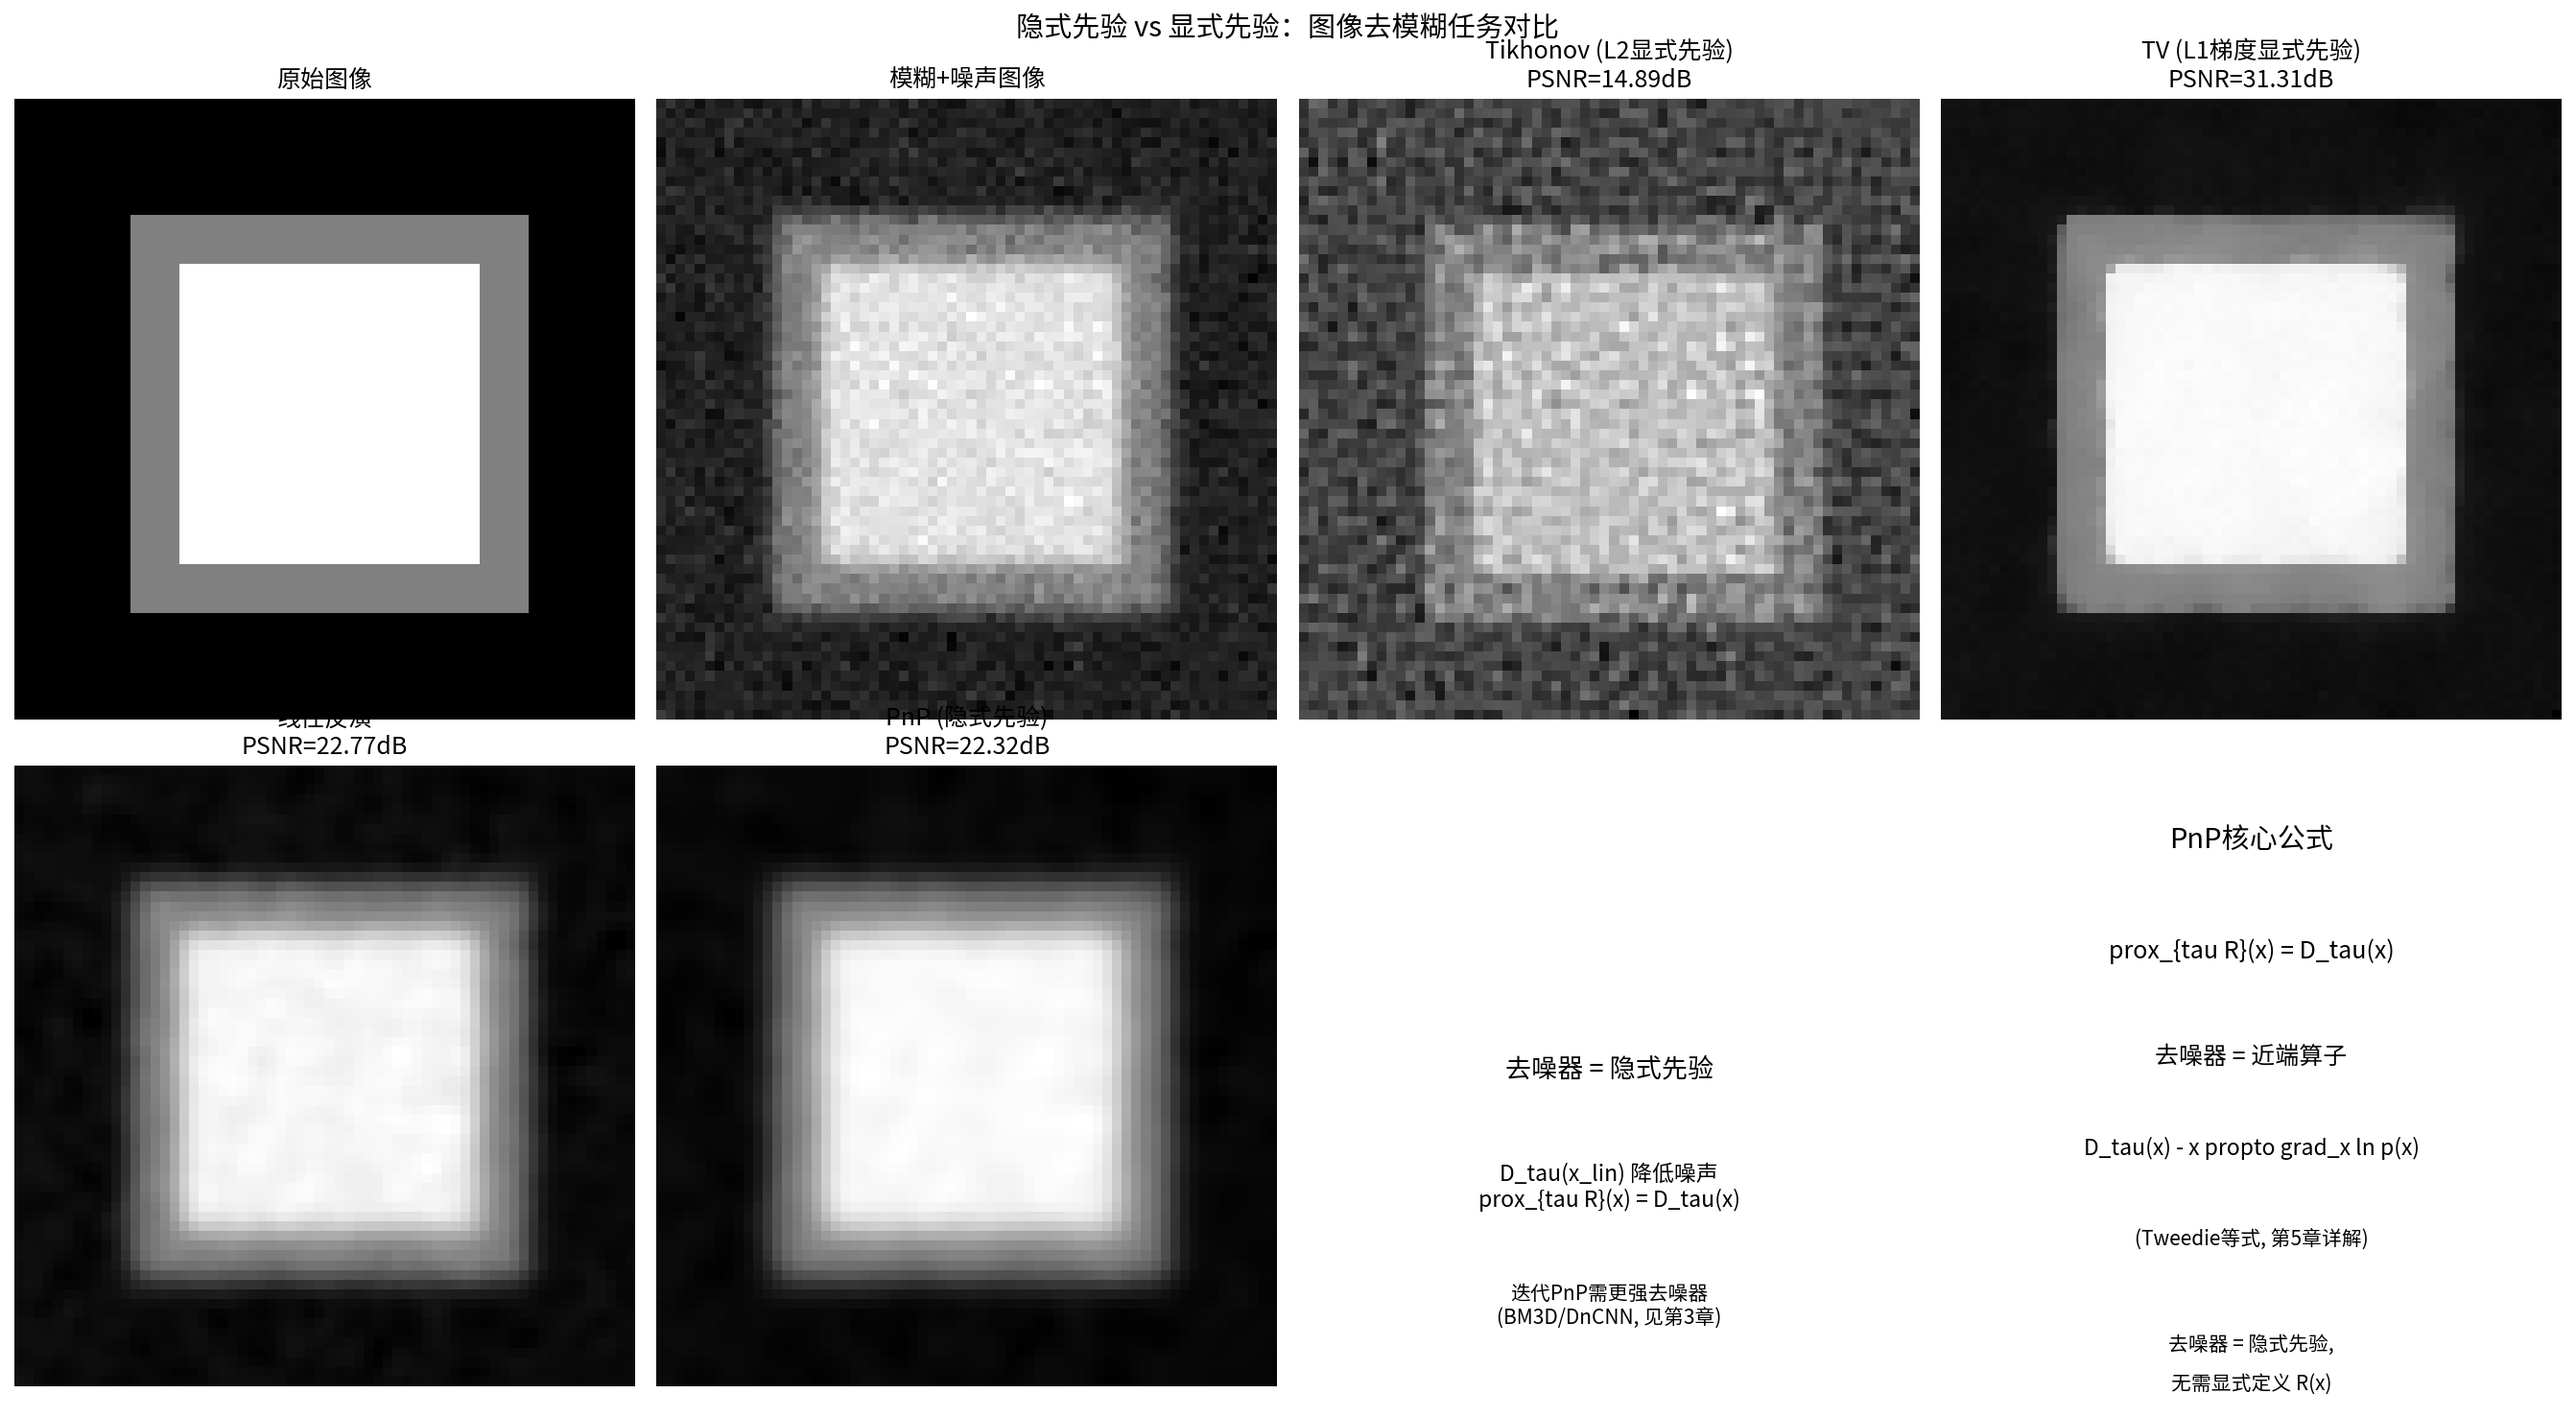
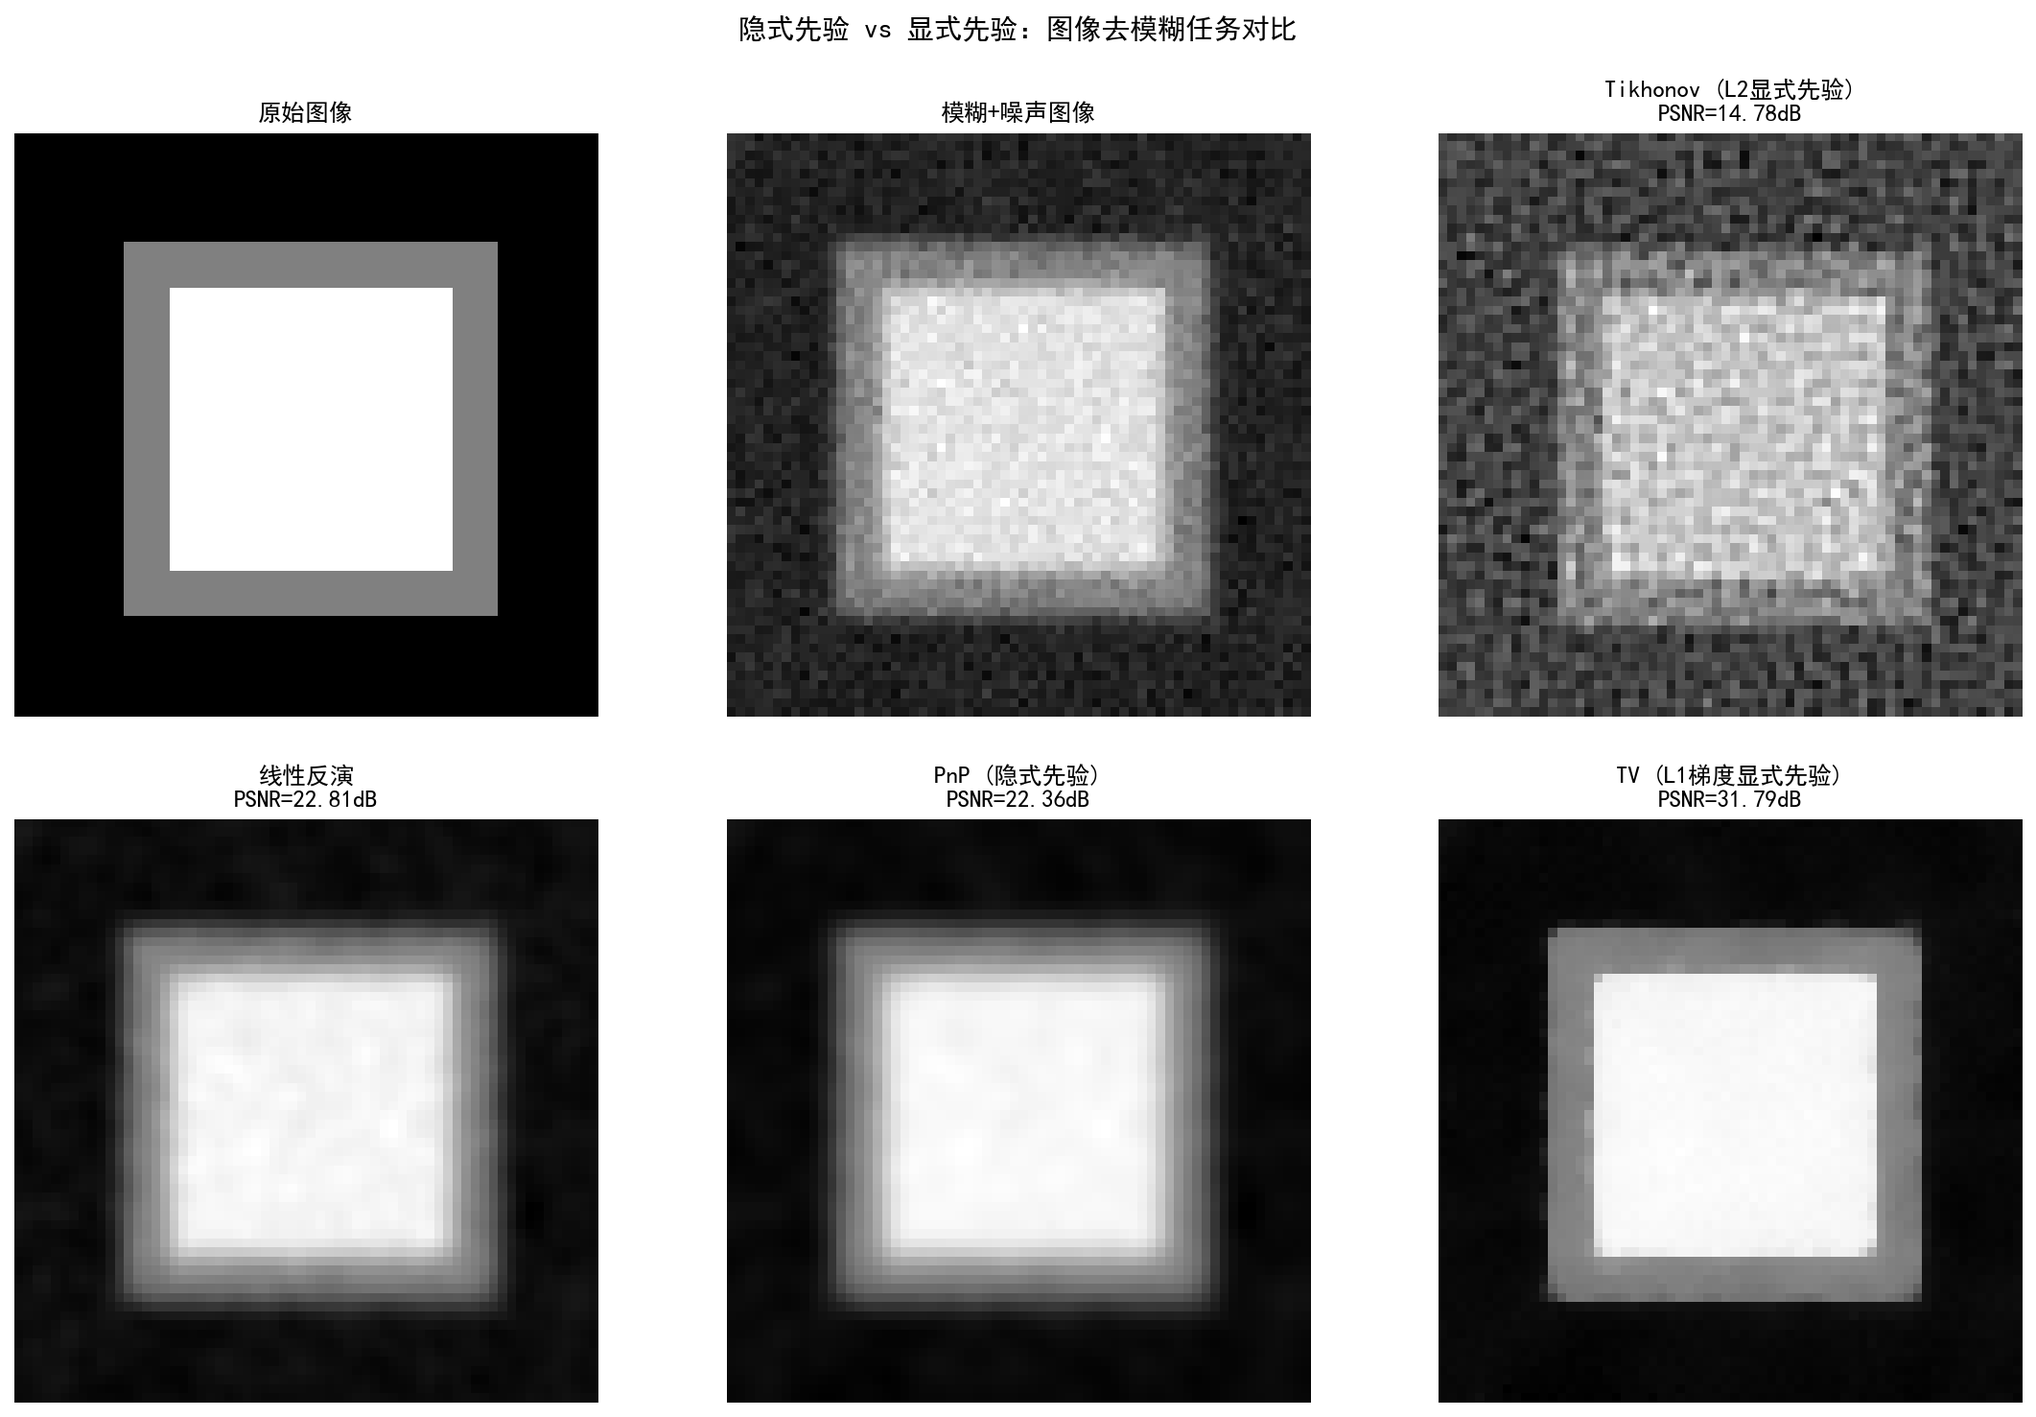
new

diff --git a/第2章 先验：贝叶斯推断的灵魂/配套实验/实验2.4-1/2.4-1.py b/第2章 先验：贝叶斯推断的灵魂/配套实验/实验2.4-1/2.4-1.py
@@ -277,7 +277,7 @@ for name, p in zip(methods, psnrs_all):
 # 可视化
 # ══════════════════════════════════════════════════════════
 
-fig, axes = plt.subplots(2, 4, figsize=(18, 10))
+fig, axes = plt.subplots(2, 3, figsize=(15, 10))
 
 # 第1行：原始 -> 退化 -> 显式先验基线
 axes[0, 0].imshow(x_true.cpu().squeeze(), cmap='gray')
@@ -292,11 +292,7 @@ axes[0, 2].imshow(x_tikh.cpu().squeeze(), cmap='gray')
 axes[0, 2].set_title(f'Tikhonov (L2显式先验)\nPSNR={psnr_tikh:.2f}dB')
 axes[0, 2].axis('off')
 
-axes[0, 3].imshow(x_tv.cpu().squeeze(), cmap='gray')
-axes[0, 3].set_title(f'TV (L1梯度显式先验)\nPSNR={psnr_tv:.2f}dB')
-axes[0, 3].axis('off')
-
-# 第2行：线性反演 -> PnP -> 收敛曲线 -> 核心公式
+# 第2行：线性反演 -> PnP -> TV
 axes[1, 0].imshow(x_lin.cpu().squeeze(), cmap='gray')
 axes[1, 0].set_title(f'线性反演\nPSNR={psnr_lin:.2f}dB')
 axes[1, 0].axis('off')
@@ -305,35 +301,15 @@ axes[1, 1].imshow(x_pnp.cpu().squeeze(), cmap='gray')
 axes[1, 1].set_title(f'PnP (隐式先验)\nPSNR={psnr_pnp:.2f}dB')
 axes[1, 1].axis('off')
 
-axes[1, 2].text(0.5, 0.5, '去噪器 = 隐式先验', fontsize=13,
-                ha='center', fontweight='bold')
-axes[1, 2].text(0.5, 0.3, 'D_tau(x_lin) 降低噪声\nprox_{tau R}(x) = D_tau(x)',
-                fontsize=11, ha='center')
-axes[1, 2].text(0.5, 0.12, '迭代PnP需更强去噪器\n(BM3D/DnCNN, 见第3章)',
-                fontsize=10, ha='center', style='italic')
+axes[1, 2].imshow(x_tv.cpu().squeeze(), cmap='gray')
+axes[1, 2].set_title(f'TV (L1梯度显式先验)\nPSNR={psnr_tv:.2f}dB')
 axes[1, 2].axis('off')
 
-axes[1, 3].text(0.5, 0.85, 'PnP核心公式', fontsize=14,
-                ha='center', fontweight='bold')
-axes[1, 3].text(0.5, 0.68, 'prox_{tau R}(x) = D_tau(x)',
-                fontsize=12, ha='center')
-axes[1, 3].text(0.5, 0.52, '去噪器 = 近端算子',
-                fontsize=12, ha='center')
-axes[1, 3].text(0.5, 0.38, 'D_tau(x) - x propto grad_x ln p(x)',
-                fontsize=11, ha='center')
-axes[1, 3].text(0.5, 0.24, '(Tweedie等式, 第5章详解)',
-                fontsize=10, ha='center', style='italic')
-axes[1, 3].text(0.5, 0.08, '去噪器 = 隐式先验,',
-                fontsize=10, ha='center', style='italic')
-axes[1, 3].text(0.5, 0.02, '无需显式定义 R(x)',
-                fontsize=10, ha='center', style='italic')
-axes[1, 3].axis('off')
-
 plt.suptitle('隐式先验 vs 显式先验：图像去模糊任务对比', fontsize=14)
-plt.tight_layout()
+plt.tight_layout(rect=[0, 0, 1, 0.98])  # 调整布局，为suptitle留出更多空间
+plt.subplots_adjust(hspace=0.175)  # 增加行间距，使两行子图之间有更多间隔
 plt.savefig(os.path.join(SAVE_DIR, '步骤1_PnP与显式先验对比.png'), dpi=150, bbox_inches='tight')
-if not SILENT_MODE:
-    plt.show()
+plt.close()
 
 # ══════════════════════════════════════════════════════════
 # 核心结论
